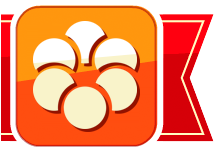
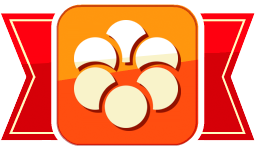
Update Button and start working on Archipelago Menu

diff --git a/Archipelago.DuckLifeRetroPack/ArchipelagoMod.cs b/Archipelago.DuckLifeRetroPack/ArchipelagoMod.cs
@@ -4,6 +4,7 @@ using UnityEngine;
 using MelonLoader;
 using Archipelago.MultiClient.Net;
 using Archipelago.MultiClient.Net.Enums;
+using Archipelago.DuckLifeRetroPack;
 
 namespace Archipelago.DuckLife
 {
@@ -12,11 +13,14 @@ namespace Archipelago.DuckLife
         public static ArchipelagoMod instance;
 
         public int currentGame = 0;
+        //0 = Menu
         //1 = DuckLife 1
         //2 = DuckLife 2
         //3 = DuckLife 3
 
+        private Sprite buttonSprite;
 
+        //Methods
         public override void OnEarlyInitializeMelon()
         {
             instance = this;
@@ -31,6 +35,7 @@ namespace Archipelago.DuckLife
             //ARCHIPELAGO
             var session = ArchipelagoSessionFactory.CreateSession("localhost", 38281);
             LoginResult result = session.TryConnectAndLogin("Duck Life: Retro Pack", "Duck Life", ItemsHandlingFlags.AllItems);
+            instance.LoggerInstance.Msg($"Login Result: {result}");
         }
 
         public override void OnSceneWasLoaded(int buildIndex, string sceneName)
@@ -38,6 +43,9 @@ namespace Archipelago.DuckLife
             instance.LoggerInstance.Msg($"Scene {sceneName} with build index {buildIndex} has been loaded!");
             if ( sceneName == "RetroMenu" )
             {
+                //DO NOT DO THIS. EVER
+                buttonSprite = GameObject.Find("Menus").transform.Find("ChallengesMenu").transform.Find("BackBtn").GetComponent<SpriteRenderer>().sprite;
+
                 CreateArchipelagoMenu();
                 CreateArchipelagoButton();
             }
@@ -51,6 +59,48 @@ namespace Archipelago.DuckLife
             //}
         }
 
+        private void CreateArchipelagoMenu() 
+        {
+            GameObject ArchipelagoMenu = new GameObject("ArchipelagoMenu");
+            ArchipelagoMenu.layer = LayerMask.NameToLayer("MenuFG");
+            ArchipelagoMenu.transform.SetParent(GameObject.Find("Menus").transform);
+            ArchipelagoMenu.transform.position = new Vector3(-19.2f, 0, 0);
+            ArchipelagoMenu.AddComponent<ArchipelagoMenu>();
+
+            //Back Button
+            GameObject ArchipelagoMenuBackButton = CreateSpriteObject("ArchipelagoBackBtn", buttonSprite, new Vector3(26.61f, -4.4654f, 0));
+            ArchipelagoMenuBackButton.layer = LayerMask.NameToLayer("MenuBG");
+            ArchipelagoMenuBackButton.transform.SetParent(ArchipelagoMenu.transform);
+            ArchipelagoMenuBackButton.AddComponent<ArchipelagoBackBtn>();
+            ArchipelagoMenuBackButton.AddComponent<HandCursorOnHover>();
+            GameObject ArchipelagoMenuBackButtonText = CreateTextObject("Back", "BACK");
+            ArchipelagoMenuBackButtonText.transform.SetParent(ArchipelagoMenuBackButton.transform);
+            ArchipelagoMenuBackButtonText.transform.position = new Vector3(26.61f, -4.4654f, 0);
+            ArchipelagoMenuBackButtonText.layer = LayerMask.NameToLayer("MenuFG");
+            
+
+
+
+        }
+
+        private static void CreateArchipelagoButton()
+        {
+            GameObject ArchipelagoButton = CreateSpriteObject("Archipelago button", "Archipelago.DuckLifeRetroPack.Resources.ArchipelagoButton.png", new Vector3(5.25f, -4.3672f, 0f), new Vector3(0.01f, 0.01f, 0));
+            ArchipelagoButton.layer = LayerMask.NameToLayer("MenuFG");
+            ArchipelagoButton.transform.SetParent(GameObject.Find("Menus").transform.Find("MainMenu"));
+            var FlyIn = ArchipelagoButton.AddComponent<FlyIn>();
+            ArchipelagoButton.AddComponent<ArchipelagoBtn>();
+            ArchipelagoButton.AddComponent<HandCursorOnHover>();
+
+            FlyIn.deviation = 2;
+            FlyIn.initialDelay = 180;
+            FlyIn.movement = FlyIn.directions.yOnly;
+            FlyIn.movtype = FlyIn.movetype.bounceOut;
+            FlyIn.startCoordinates = new Vector2(2.05f, -6.3f);
+            FlyIn.time = 95;
+        }
+
+
         //Taken from the MelonLoader Discord https://discord.com/channels/663449315876012052/733305783177183335/1145726297050456208
         public static Texture2D LoadImage(string filename)
         {
@@ -63,35 +113,60 @@ namespace Archipelago.DuckLife
             tex.filterMode = FilterMode.Bilinear;
             return tex;
         }
+
         public static Sprite CreateSprite(Texture2D texture) => Sprite.Create(texture, new Rect(0, 0, texture.width, texture.height), new Vector2(0.5f, 0.5f), 1);
 
-        private static void CreateArchipelagoMenu() 
+        //CreateSpriteObject
+        private static GameObject CreateSpriteObject(String name, String imagePath, Vector3 position, Vector3 scale)
         {
-            GameObject ArchipelagoMenu = new GameObject("Archipelago Menu");
-            ArchipelagoMenu.layer = LayerMask.NameToLayer("MenuFG");
-            ArchipelagoMenu.transform.SetParent(GameObject.Find("Menus").transform);
-            ArchipelagoMenu.transform.position = new Vector3(-19.2f, 0, 0);
+            var spriteObject = new GameObject(name);
+            spriteObject.AddComponent<SpriteRenderer>().sprite = CreateSprite(LoadImage(imagePath));
+            spriteObject.AddComponent<BoxCollider2D>();
+            spriteObject.transform.position = position;
+            spriteObject.transform.localScale = scale;
+            return spriteObject;
         }
 
-        private static void CreateArchipelagoButton()
+        private static GameObject CreateSpriteObject(String name, String imagePath, Vector3 position)
         {
-            GameObject ArchipelagoButton = new GameObject("Archipelago button");
-            ArchipelagoButton.layer = LayerMask.NameToLayer("MenuFG");
-            ArchipelagoButton.transform.SetParent(GameObject.Find("Menus").transform.Find("MainMenu"));
-            ArchipelagoButton.AddComponent<SpriteRenderer>().sprite = CreateSprite(LoadImage("Archipelago.DuckLifeRetroPack.Resources.ArchipelagoButton.png"));
-            ArchipelagoButton.transform.position = new Vector3(3.83f, -4.3672f, 0f);
-            ArchipelagoButton.transform.localScale = new Vector3(0.01f, 0.01f, 0);
-            ArchipelagoButton.AddComponent<BoxCollider2D>();
-            var FlyIn = ArchipelagoButton.AddComponent<FlyIn>();
-            ArchipelagoButton.AddComponent<ArchipelagoBtn>();
-            ArchipelagoButton.AddComponent<HandCursorOnHover>();
+            var spriteObject = new GameObject(name);
+            spriteObject.AddComponent<SpriteRenderer>().sprite = CreateSprite(LoadImage(imagePath));
+            spriteObject.AddComponent<BoxCollider2D>();
+            spriteObject.transform.position = position;
+            return spriteObject;
+        }
 
-            FlyIn.deviation = 2;
-            FlyIn.initialDelay = 180;
-            FlyIn.movement = FlyIn.directions.yOnly;
-            FlyIn.movtype = FlyIn.movetype.bounceOut;
-            FlyIn.startCoordinates = new Vector2(2.05f, -6.3f);
-            FlyIn.time = 95;
+        private static GameObject CreateSpriteObject(String name, Sprite sprite, Vector3 position, Vector3 scale)
+        {
+            var spriteObject = new GameObject(name);
+            spriteObject.AddComponent<SpriteRenderer>().sprite = sprite;
+            spriteObject.AddComponent<BoxCollider2D>();
+            spriteObject.transform.position = position;
+            spriteObject.transform.localScale = scale;
+            return spriteObject;
+        }
+
+        private static GameObject CreateSpriteObject(String name, Sprite sprite, Vector3 position)
+        {
+            var spriteObject = new GameObject(name);
+            spriteObject.AddComponent<SpriteRenderer>().sprite = sprite;
+            spriteObject.AddComponent<BoxCollider2D>();
+            spriteObject.transform.position = position;
+            return spriteObject;
+        }
+
+        //CreateTextObject
+        private static GameObject CreateTextObject(String name, String text)
+        {
+            var textObject = new GameObject(name);
+            textObject.AddComponent<MeshFilter>();
+            textObject.AddComponent<MeshRenderer>();
+            var DynamTxt = textObject.AddComponent<DynamicText>();
+            DynamTxt.SetText(text);
+            //DynamTxt.font = new Font("Gotham-Ultra");
+            DynamTxt.anchor = DynamicTextAnchor.MiddleCenter;
+            DynamTxt.enabled = true;
+            return textObject;
         }
 
     }

diff --git a/Archipelago.DuckLifeRetroPack/ArchipelagoMenu.cs b/Archipelago.DuckLifeRetroPack/ArchipelagoMenu.cs
@@ -1,16 +1,12 @@
 using System;
 using System.Collections.Generic;
 using System.Text;
+using UnityEngine;
 
 namespace Archipelago.DuckLife
 {
-    internal class ArchipelagoMenu
+    internal class ArchipelagoMenu : MenuSwitch
     {
-        public ArchipelagoBtn Btn;
-
-        private void OnMouseDown()
-        {
-            Btn.MoveToMenuFromArchipelago();
-        }
+        
     }
 }

diff --git a/Archipelago.DuckLifeRetroPack/ArchipelagoBackBtn.cs b/Archipelago.DuckLifeRetroPack/ArchipelagoBackBtn.cs
@@ -1,0 +1,16 @@
+using System;
+using System.Collections.Generic;
+using System.Text;
+using UnityEngine;
+
+namespace Archipelago.DuckLifeRetroPack
+{
+    internal class ArchipelagoBackBtn : ArchipelagoBtn
+    {
+
+        private void OnMouseDown()
+        {
+            this.MoveToMenuFromArchipelago();
+        }
+    }
+}

diff --git a/Archipelago.DuckLifeRetroPack/ArchipelagoBtn.cs b/Archipelago.DuckLifeRetroPack/ArchipelagoBtn.cs
@@ -74,7 +74,7 @@ public class ArchipelagoBtn : MonoBehaviour
     private Vector2 startCoordinates;
 
     // Token: 0x0400046E RID: 1134
-    public float time = 100;
+    public float time = 70;
     //71 if going diangnal
 
     // Token: 0x0400046F RID: 1135
